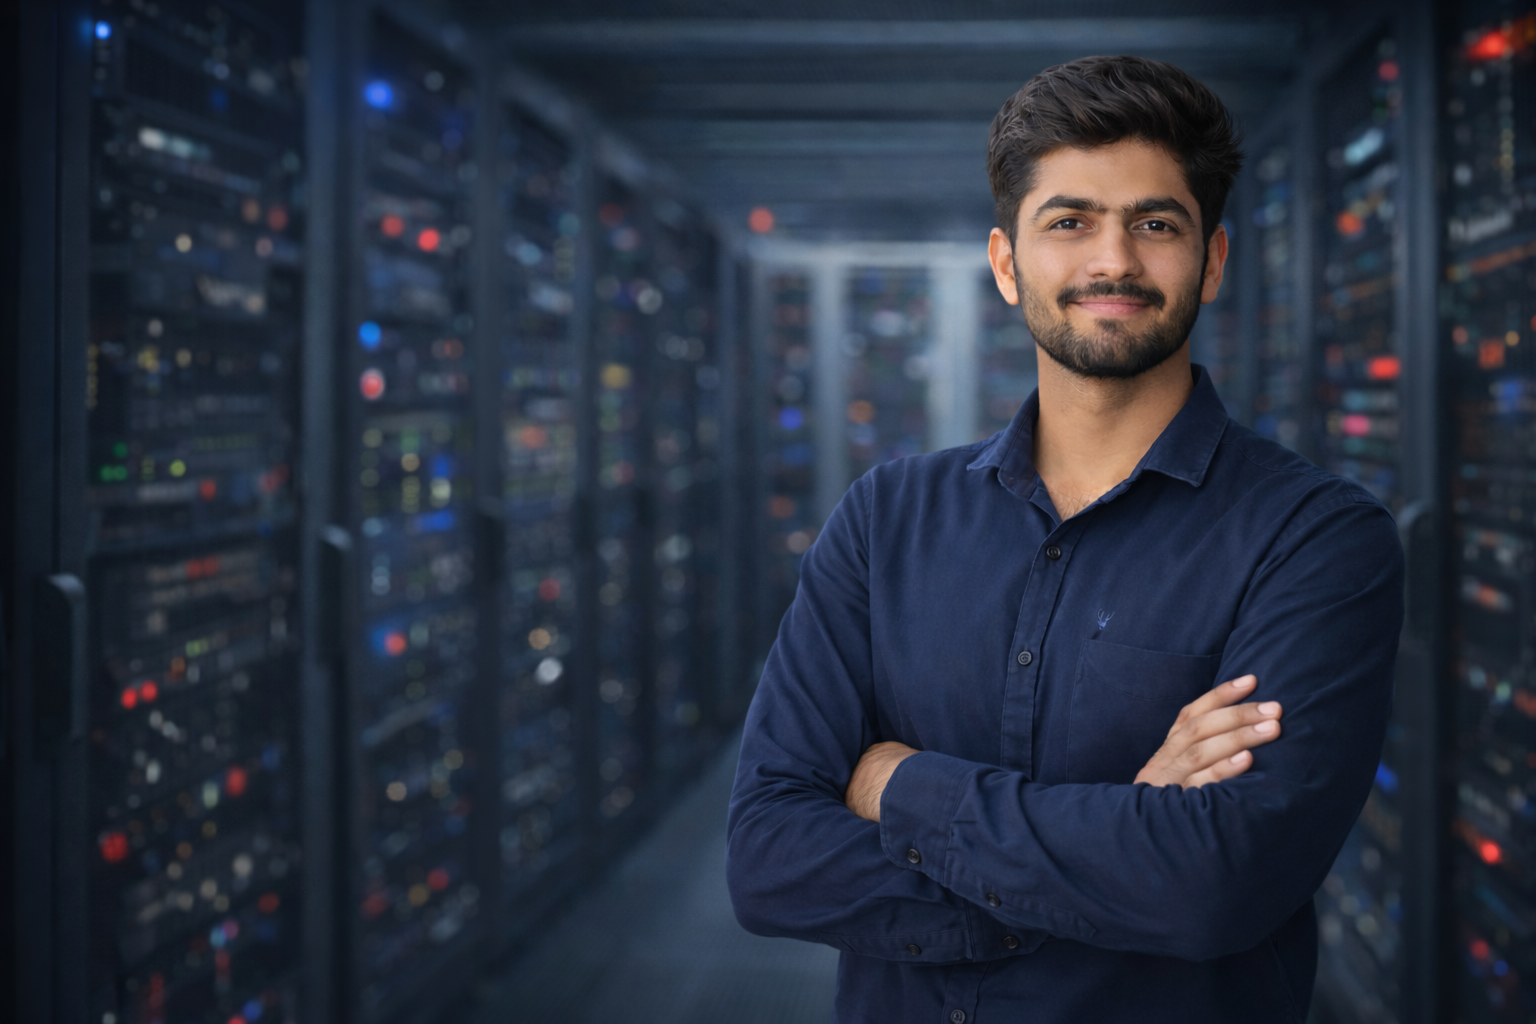
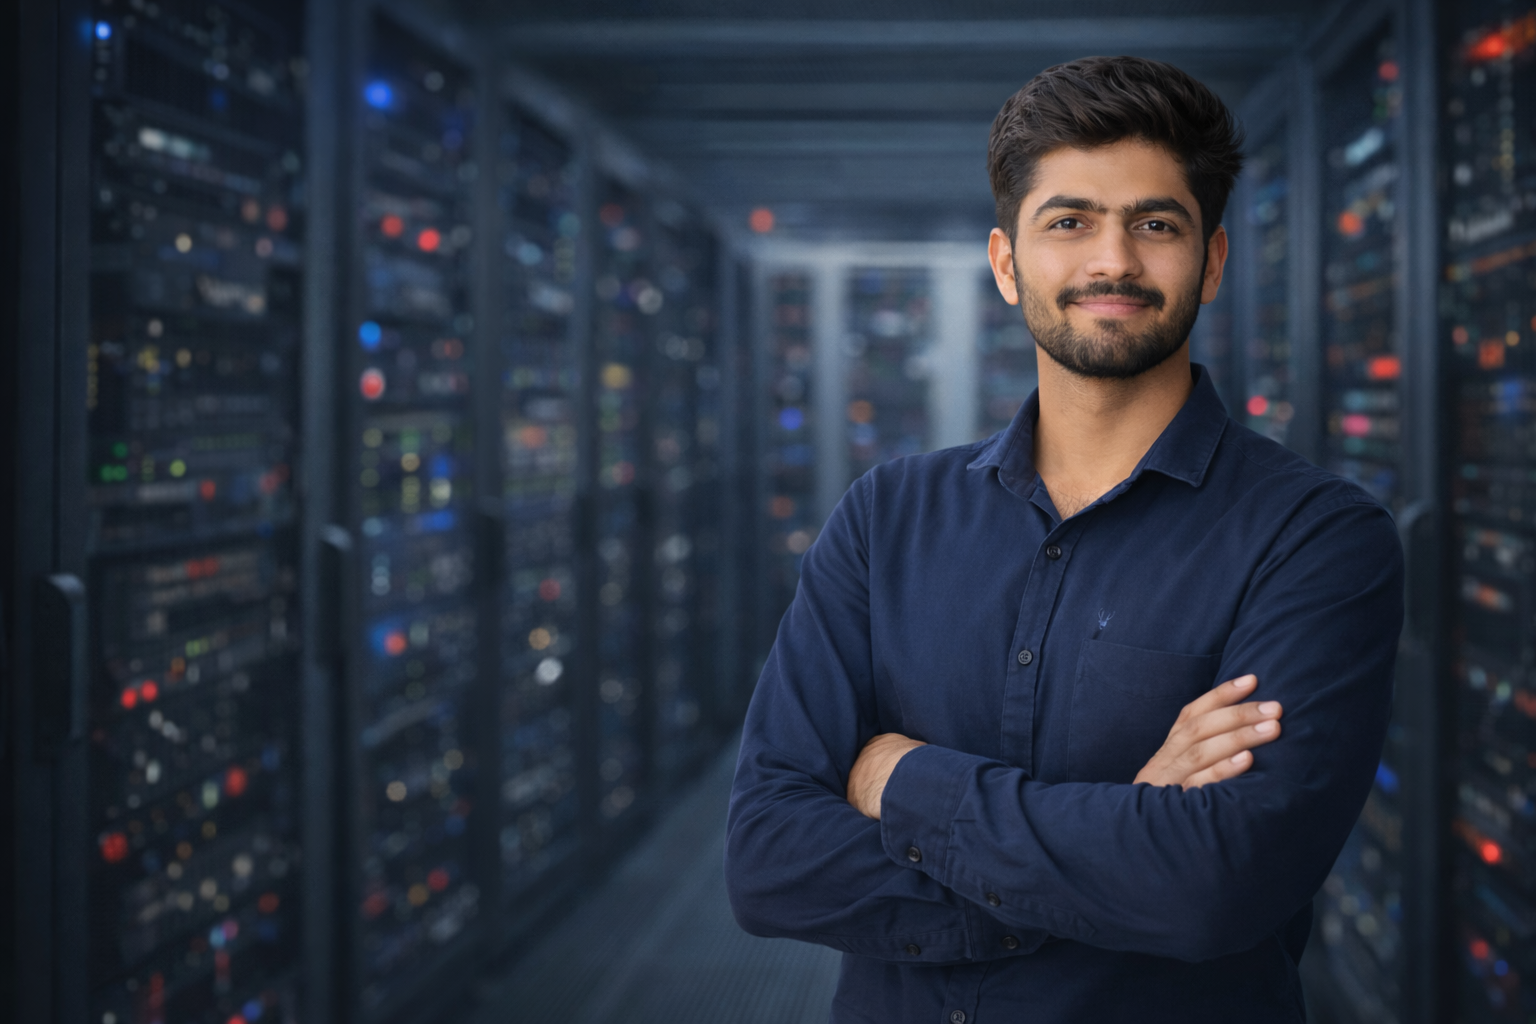
changes

diff --git a/index.html b/index.html
@@ -479,10 +479,10 @@
   <footer id="footer" class="footer position-relative light-background">
     <div class="container">
       <div class="copyright text-center">
-        <p>© 2025 <strong class="px-1 sitename">Narendra Deshmukh</strong> — AWS Cloud &amp; DevOps Engineer | Pune, India</p>
+        <p>© 2026 <strong class="px-1 sitename">Narendra Deshmukh</strong> — AWS Cloud &amp; DevOps Engineer | Pune, India</p>
       </div>
       <div class="credits text-center" style="margin-top:4px; font-size:13px; color:#888;">
-        Built with AWS S3 + CloudFront | Template by <a href="https://bootstrapmade.com/">BootstrapMade</a>
+        
       </div>
     </div>
   </footer>